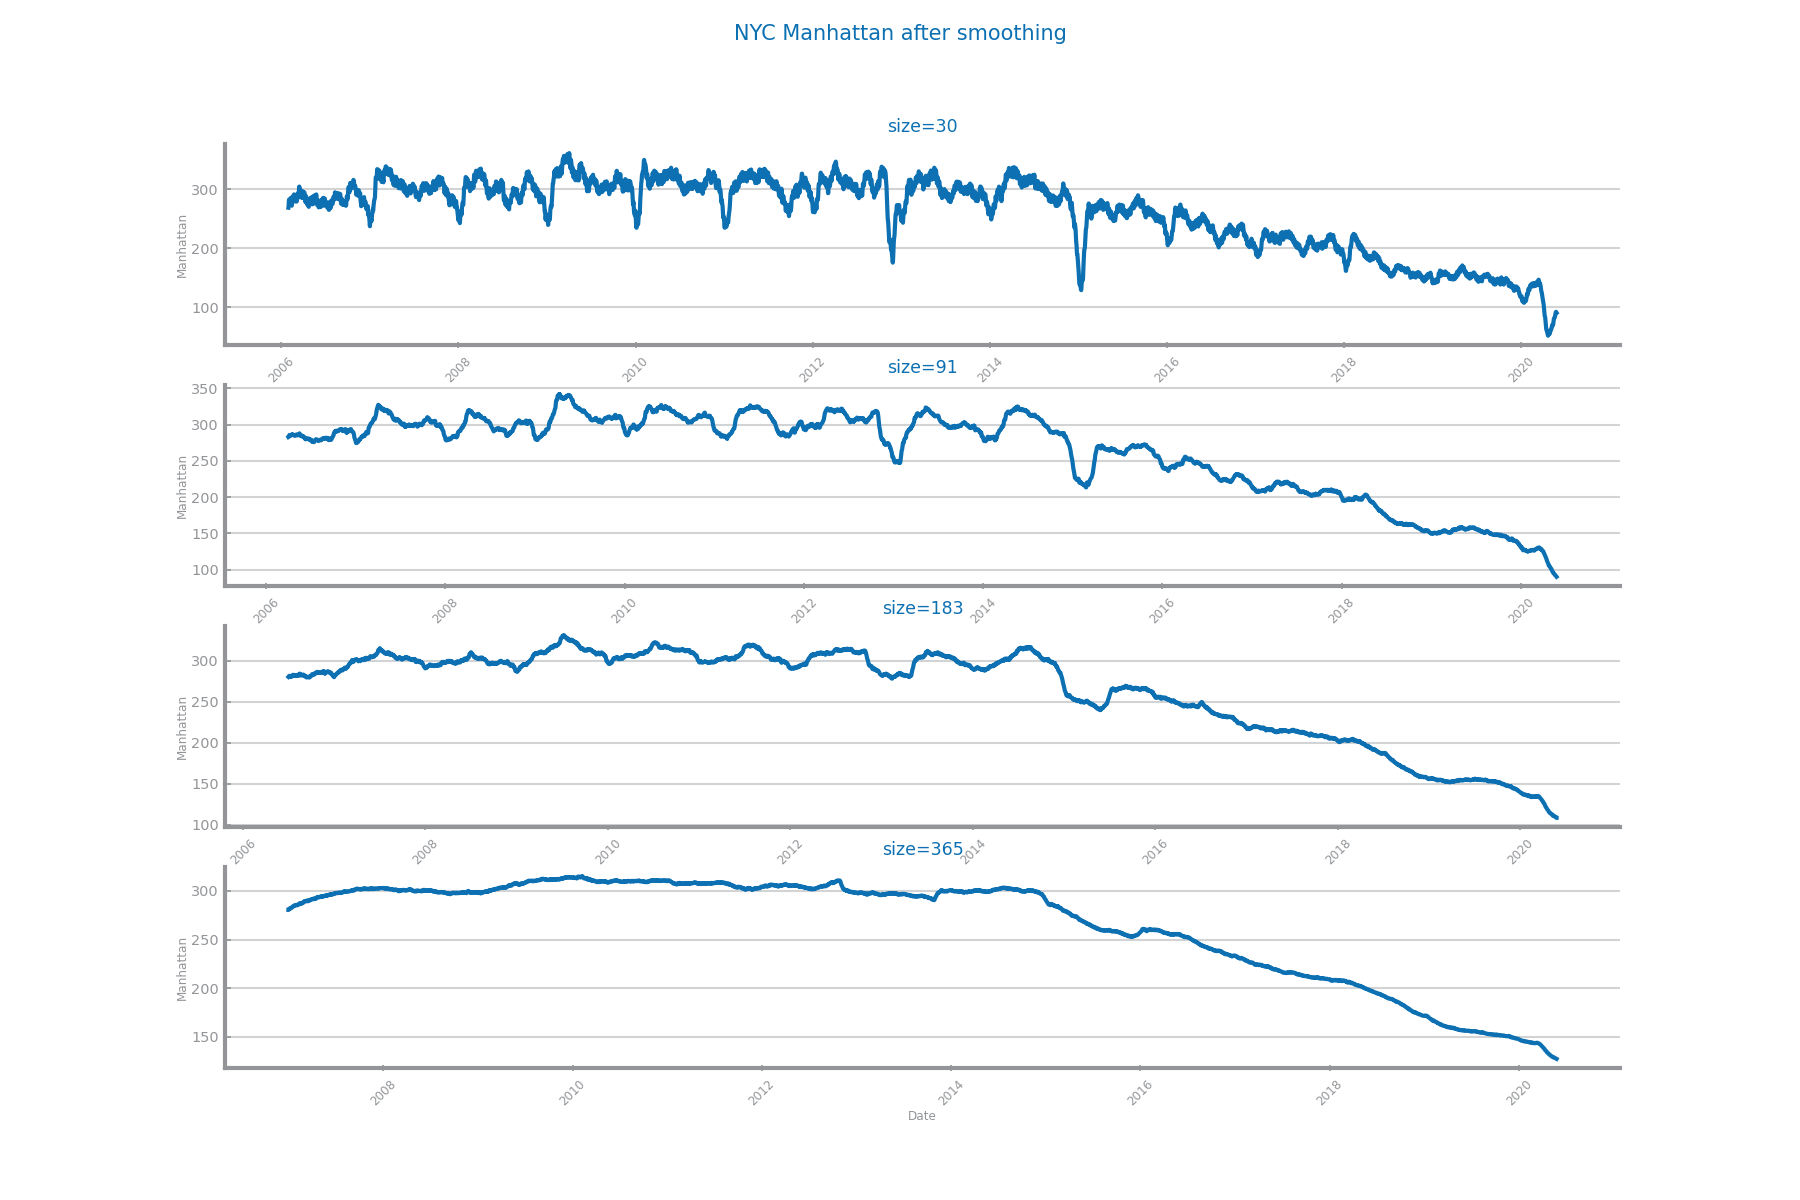
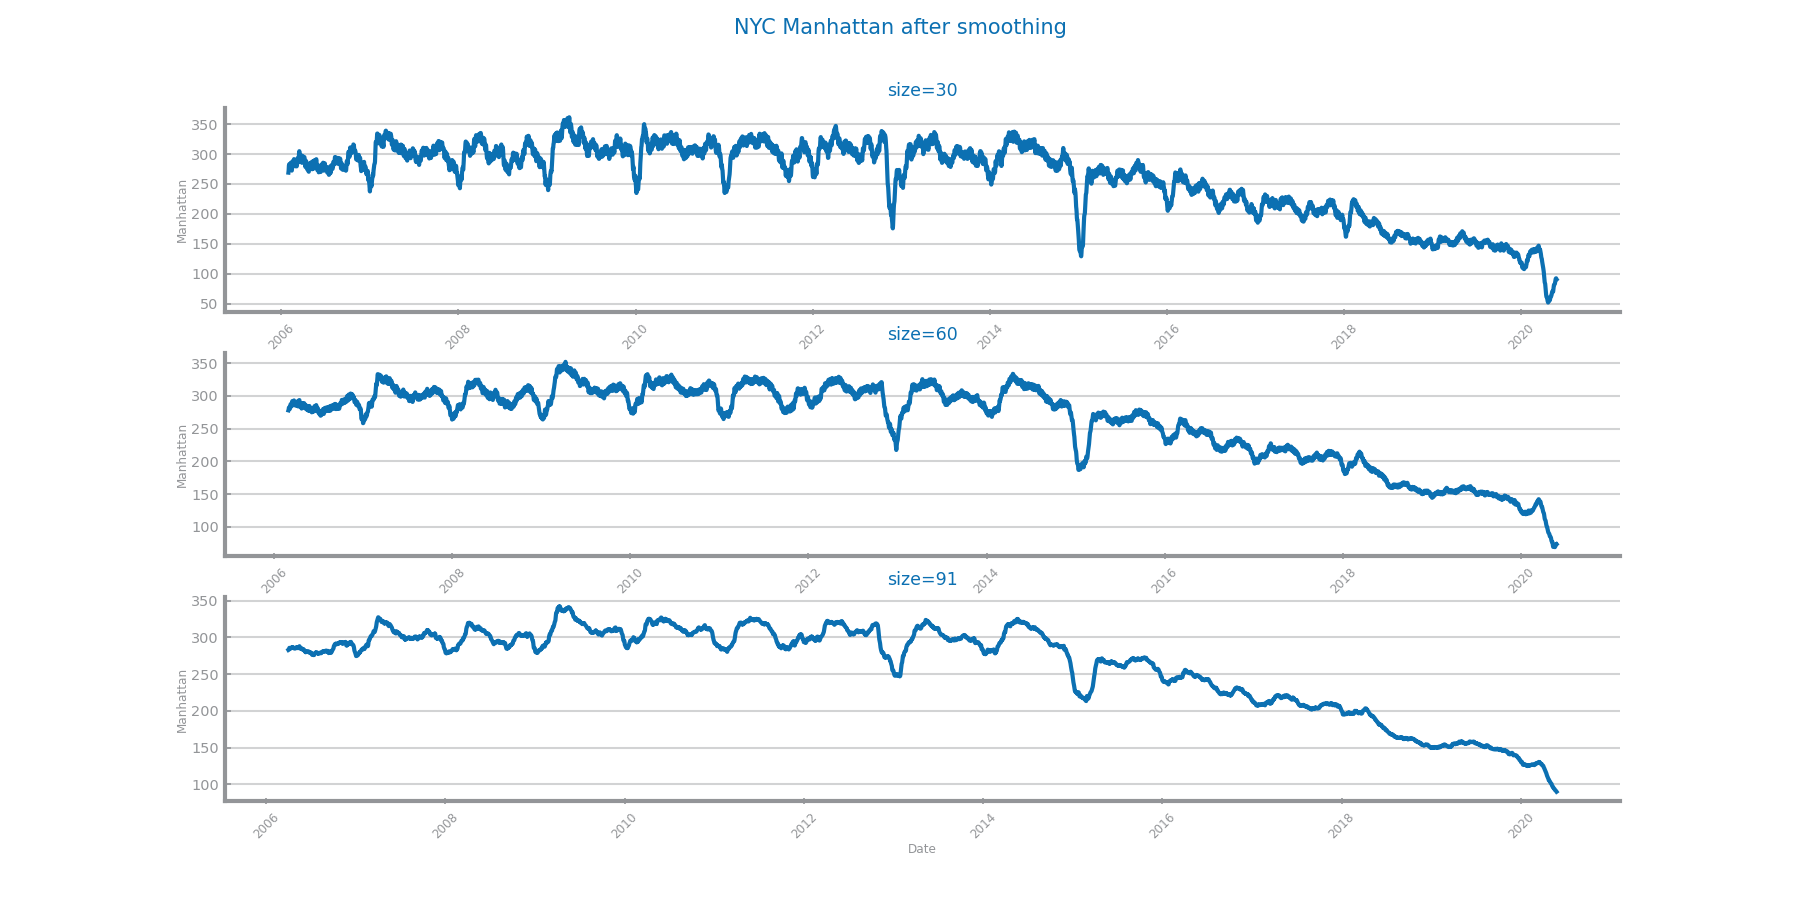
chnages for the final report

Changed region(s): [[0.0933, 0.0933, 0.9022, 0.9333], [0.4356, 0.0, 0.56, 0.0622], [0.56, 0.0311, 0.5911, 0.0622]]

diff --git a/Forecasting/Analysis/NYC/distribution.py b/Forecasting/Analysis/NYC/distribution.py
@@ -35,7 +35,7 @@ savefig(f"Forecasting/Images/Distribution/{image_tag}_{file_tag}_weekly_{target}
 fig: Figure
 axs: array
 fig, axs = subplots(2, 2, figsize=(2 * HEIGHT, HEIGHT))
-set_chart_labels(axs[0, 0], title="HOURLY")
+set_chart_labels(axs[0, 0], title="DAILY")
 axs[0, 0].boxplot(series)
 set_chart_labels(axs[0, 1], title="WEEKLY")
 axs[0, 1].boxplot(ss_weeks)
@@ -48,14 +48,15 @@ axs[1, 1].grid(False)
 axs[1, 1].set_axis_off()
 axs[1, 1].text(0.2, 0, str(ss_weeks.describe()), fontsize="small")
 
-savefig(f"Forecasting/Images/{image_tag}_{file_tag}_boxplot_{target}.png")
+savefig(f"Forecasting/Images/Distribution/{image_tag}_{file_tag}_boxplot_{target}.png")
 
 ss_days: Series = ts_aggregation_by(series, gran_level="D", agg_func=sum)
 ss_months: Series = ts_aggregation_by(series, gran_level="M", agg_func=sum)
 ss_quarters: Series = ts_aggregation_by(series, gran_level="Q", agg_func=sum)
+ss_years: Series = ts_aggregation_by(series, gran_level="Y", agg_func=sum)
 
-grans: list[Series] = [series, ss_days, ss_weeks, ss_months, ss_quarters]
-gran_names: list[str] = ["Horuly", "Daily", "Weekly", "Monthly", "Quarterly"]
+grans: list[Series] = [series, ss_months, ss_quarters, ss_years]
+gran_names: list[str] = ["Daily", "Weekly", "Quarterly", "Annualy"]
 fig: Figure
 axs: array
 fig, axs = subplots(1, len(grans), figsize=(len(grans) * HEIGHT, HEIGHT))

diff --git a/Forecasting/Transformation/NYC/aggregation.py b/Forecasting/Transformation/NYC/aggregation.py
@@ -23,16 +23,16 @@ data2: DataFrame = read_csv(
 
 series: Series = data[target]
 figure(figsize=(3 * HEIGHT, HEIGHT / 2))
-ss_agg: Series = ts_aggregation_by(series, gran_level="D", agg_func="sum")
+ss_agg: Series = ts_aggregation_by(series, gran_level="W", agg_func="sum")
 plot_line_chart(
     ss_agg.index.to_list(),
     ss_agg.to_list(),
     xlabel=ss_agg.index.name,
     ylabel=target,
-    title=f"{file_tag} daily {target}",
+    title=f"{file_tag} weekly {target}",
 )
 
-savefig(f"Forecasting/Images/Aggregation/{file_tag}_before_aggregation.png")
+savefig(f"Forecasting/Images/Aggregation/{file_tag}_W_aggregation.png")
 
 from dslabs_functions import plot_ts_multivariate_chart
 
@@ -43,8 +43,8 @@ plot_ts_multivariate_chart(data, title=f"{file_tag} {target}")
 
 #plot_ts_multivariate_chart(agg_df, title=f"{file_tag} after daily aggregation {target}")
 
-agg_df: DataFrame = ts_aggregation_by(data, gran_level="M", agg_func="mean")
-agg_df2: DataFrame = ts_aggregation_by(data2, gran_level="M", agg_func="mean")
+agg_df: DataFrame = ts_aggregation_by(data, gran_level="Y", agg_func="mean")
+agg_df2: DataFrame = ts_aggregation_by(data2, gran_level="Y", agg_func="mean")
 
 agg_df.to_csv(f"Data/train_forecast_ny_arrests_aggregated.csv")
 agg_df2.to_csv(f"Data/test_forecast_ny_arrests_aggregated.csv")

diff --git a/Forecasting/Forecasting/NYC/evaluation.py b/Forecasting/Forecasting/NYC/evaluation.py
@@ -68,10 +68,10 @@ class SimpleAvgRegressor(RegressorMixin):
         prd_series.index = X.index
         return prd_series
     
-version: str = "diff1"
+version: str = "aggregY"
 original_file: str = f"Data/forecast_ny_arrests.csv"
-train_filename: str = f"Data/train_forecast_ny_arrests_differentiated.csv"
-test_filename: str = f"Data/test_forecast_ny_arrests_differentiated.csv"
+train_filename: str = f"Data/train_forecast_ny_arrests_aggregated.csv"
+test_filename: str = f"Data/test_forecast_ny_arrests_aggregated.csv"
 file_tag: str = "forecasting_ny_arrests"
 target: str = "Manhattan"
 timecol: str = "Date"

diff --git a/Forecasting/Analysis/NYC/granularity.py b/Forecasting/Analysis/NYC/granularity.py
@@ -6,7 +6,7 @@ from matplotlib.axes import Axes
 from matplotlib.figure import Figure
 
 file_tag = "NYC"
-gran = "Y"
+gran = "M"
 target = "Manhattan"
 data: DataFrame = read_csv(
     "Data/forecast_ny_arrests.csv",
@@ -48,7 +48,7 @@ plot_line_chart(
     ss_days.to_list(),
     xlabel="days",
     ylabel=target,
-    title=f"{file_tag} daily mean {target}",
+    title=f"{file_tag} monthly mean {target}",
 )
 savefig(f"Forecasting/Images/Granularity/{file_tag}_aggregationby{gran}.png")
 

diff --git a/Forecasting/Transformation/NYC/smoothing.py b/Forecasting/Transformation/NYC/smoothing.py
@@ -38,7 +38,7 @@ plot_line_chart(
 )
 savefig(f"Forecasting/Images/Smoothing/{file_tag}_aftersmoothing.png")
 
-sizes: list[int] = [30, 91, 183, 365] # monthly, quarterly, semi-annual, and annual
+sizes: list[int] = [30, 60, 91] # monthly, quarterly, semi-annual, and annual
 fig: Figure
 axs: list[Axes]
 fig, axs = subplots(len(sizes), 1, figsize=(3 * HEIGHT, HEIGHT / 2 * len(sizes)))

diff --git a/Forecasting/Forecasting/NYC/lstms.py b/Forecasting/Forecasting/NYC/lstms.py
@@ -101,6 +101,7 @@ def lstm_study_uni(train, test, nr_episodes: int = 1000, measure: str = "R2"):
     for i in range(len(sequence_size)):
         length = sequence_size[i]
         tstX, tstY = prepare_dataset_for_lstm(test, seq_length=length)
+        print(tstX.shape, tstY.shape)
 
         values = {}
         for hidden in nr_hidden_units:
